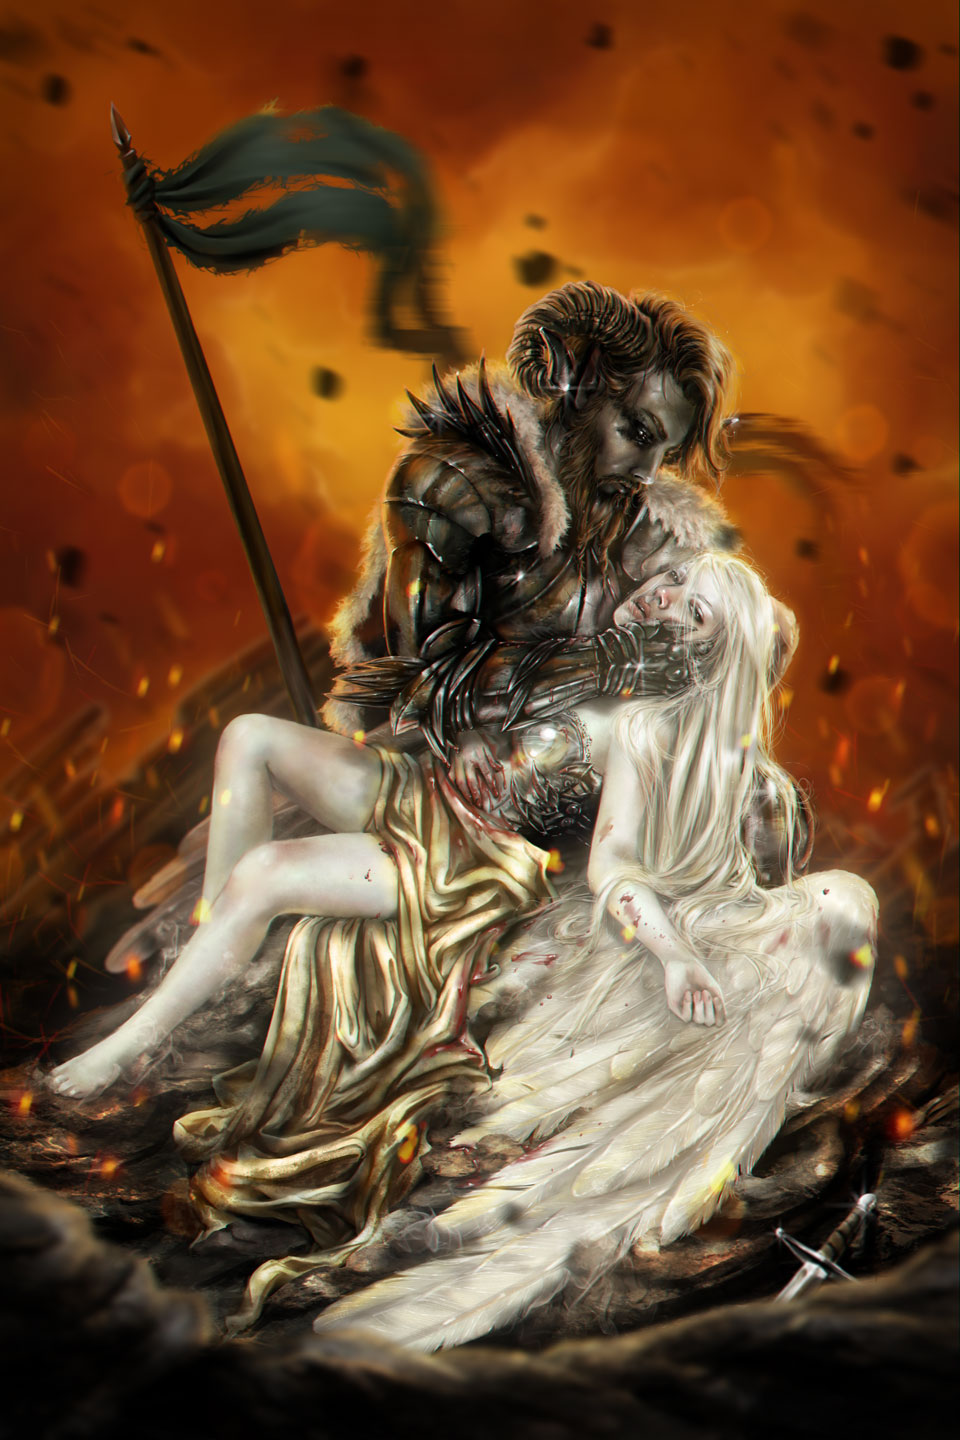
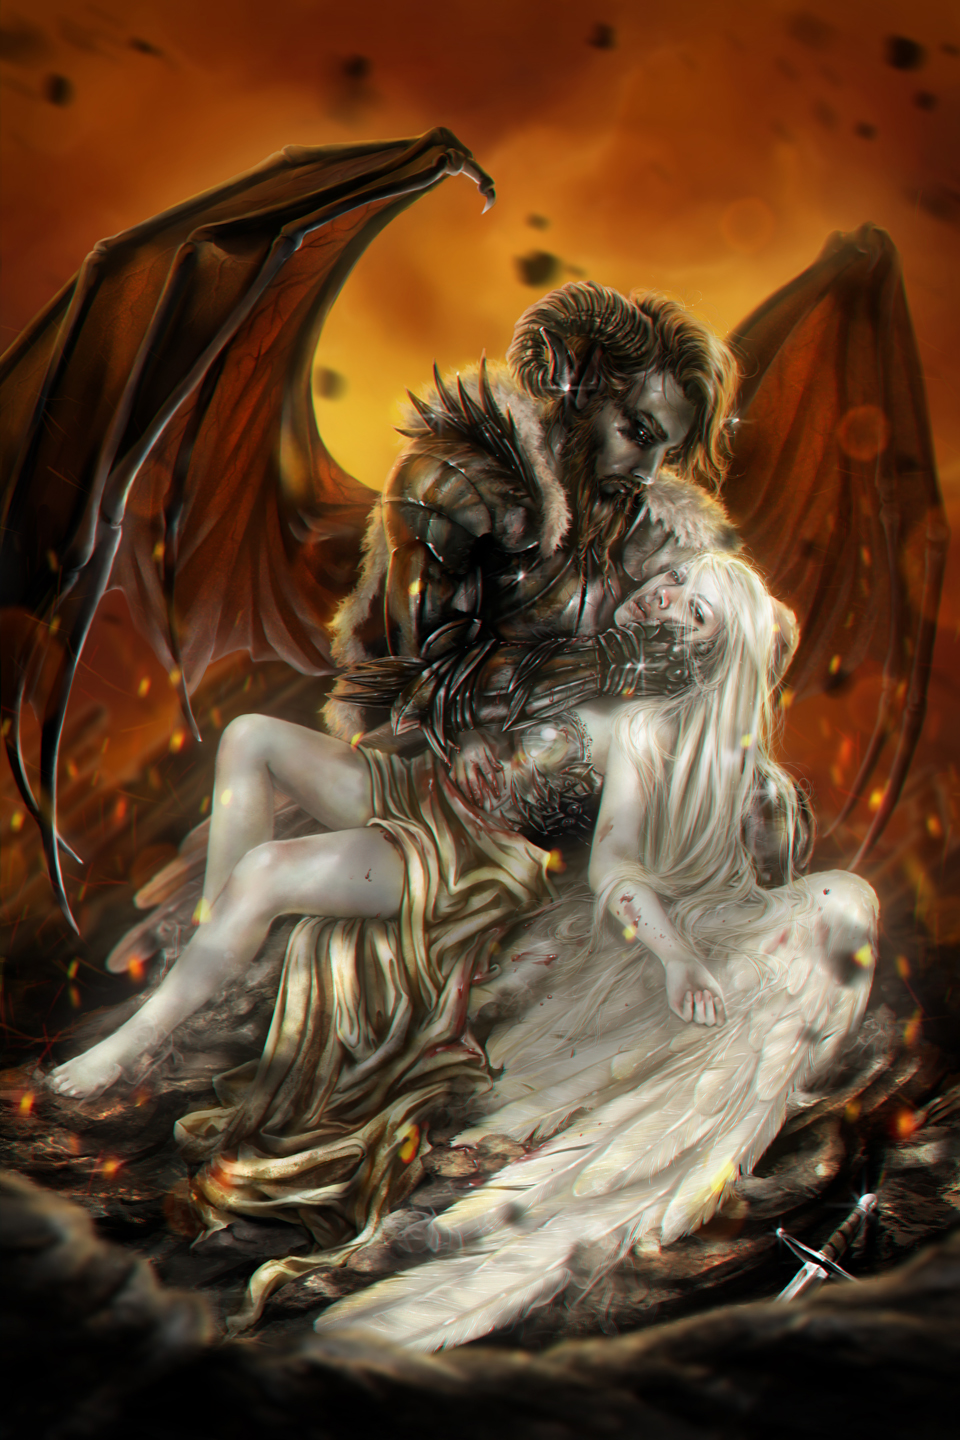
updated fallen project

diff --git a/projects/Fallen.html b/projects/Fallen.html
@@ -54,25 +54,22 @@
 
 <p>Digital painting featuring some of my favorite religious/mythological creatures, angels and demons! </p>
 
-<p>Working with the concept of a fallen angel, I decided to go a slightly different route than some of my
- initial thumbnail sketches. While the demon&#39;s affection toward the angel could indicate that the corrupted 
- associations with the word are also true, it is her defeat on the hellish battlefield that was inspired by the 
- concept.</p>
+<p>Rework of <a href="http://tmblr.co/ZmEH6t1mjq5Iz">a previous painting</a> to rebalance the composition.</p>
 						
 							<div class="prints">
 								<h3>Prints available at:</h3>
 								
-									<a href="http://www.redbubble.com/people/penguinstein/works/15154816-fallen">
+									<a href="http://www.redbubble.com/people/penguinstein/works/17912617-fallen-revisited">
 										<img src="/img/redbubble.svg">
 									</a>
 								
 								
-									<a href="http://society6.com/product/fallen-7zn_print#1=45">
+									<a href="https://society6.com/product/fallen-revisited_print#1=45">
 										<img src="/img/society6.svg">
 									</a>
 								
 								
-									<a href="https://crated.com/art/189114/fallen-by-alyssamay?product=PO&amp;size=18%7C12">
+									<a href="https://crated.com/art/229059/fallen--revisited--by-alyssamay?product=PO&amp;size=18%7C12">
 										<img src="/img/crated.svg">
 									</a>
 								
@@ -81,7 +78,7 @@
 					</div>
 					<div class="content-right">
 						<h2>Process video:</h2>
-						<a href="https://www.youtube.com/watch?v=a5XEgjsjZFg">
+						<a href="https://www.youtube.com/watch?v=ySKGutohi3o">
 							<img src="/img/projects/Fallen/youtubeThumb.jpg">
 						</a>
 					</div>
